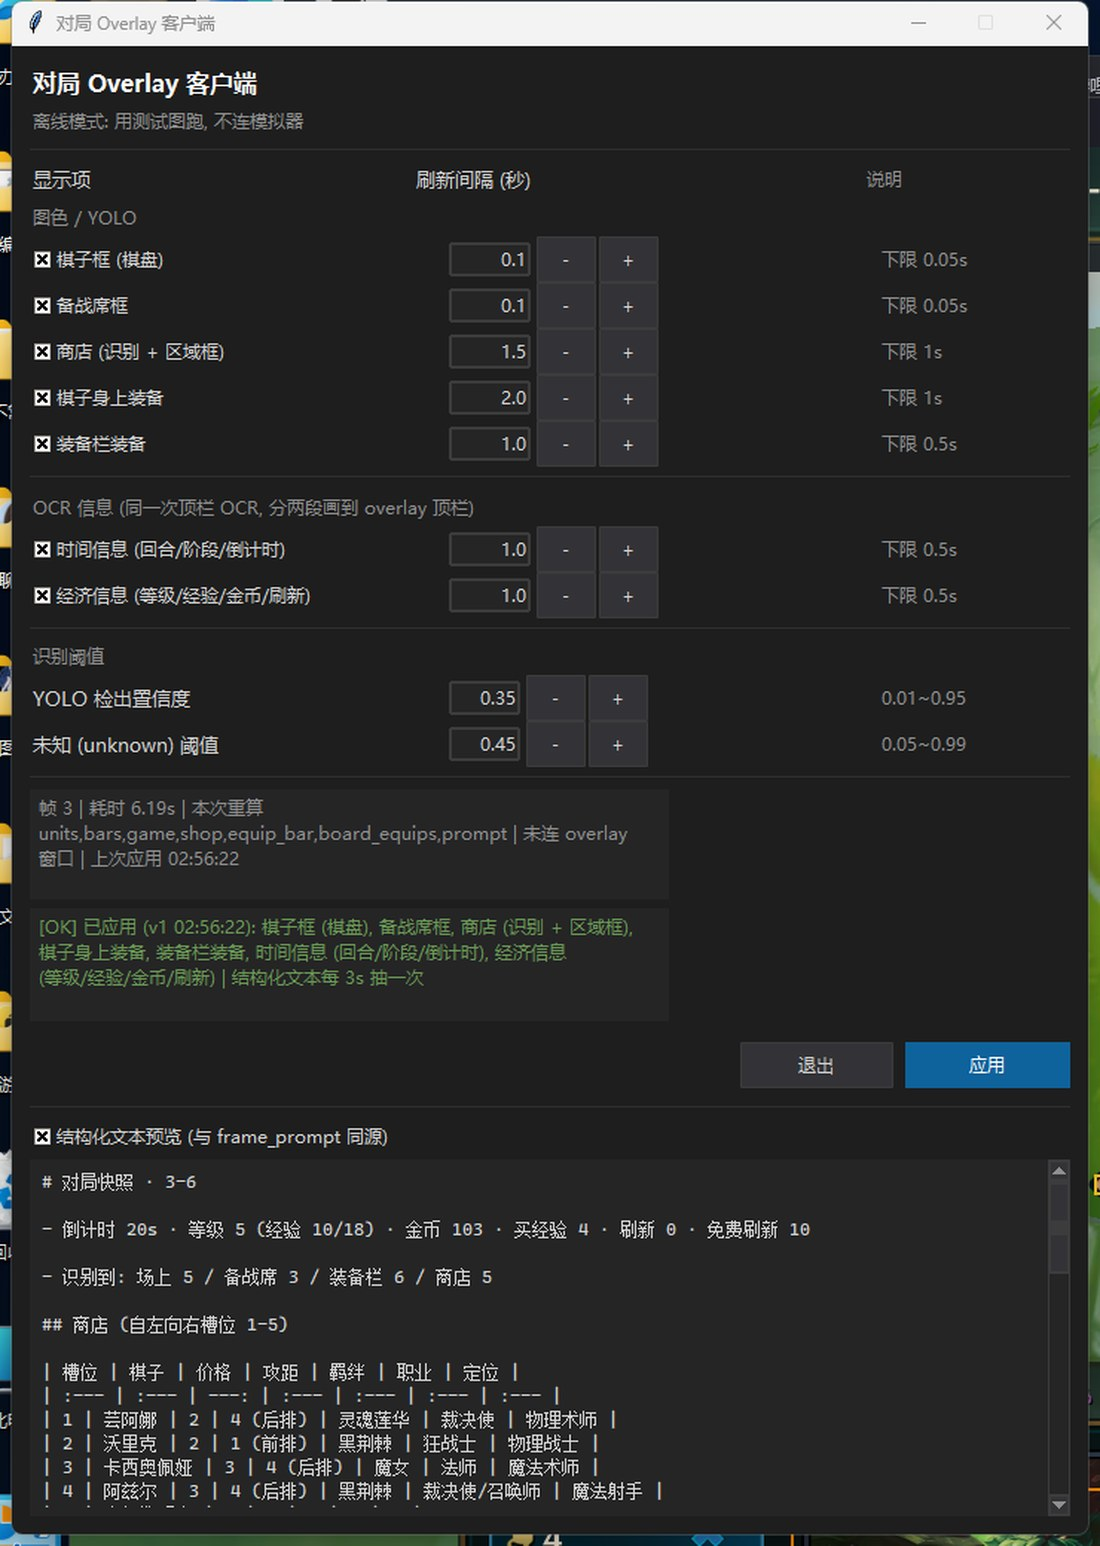
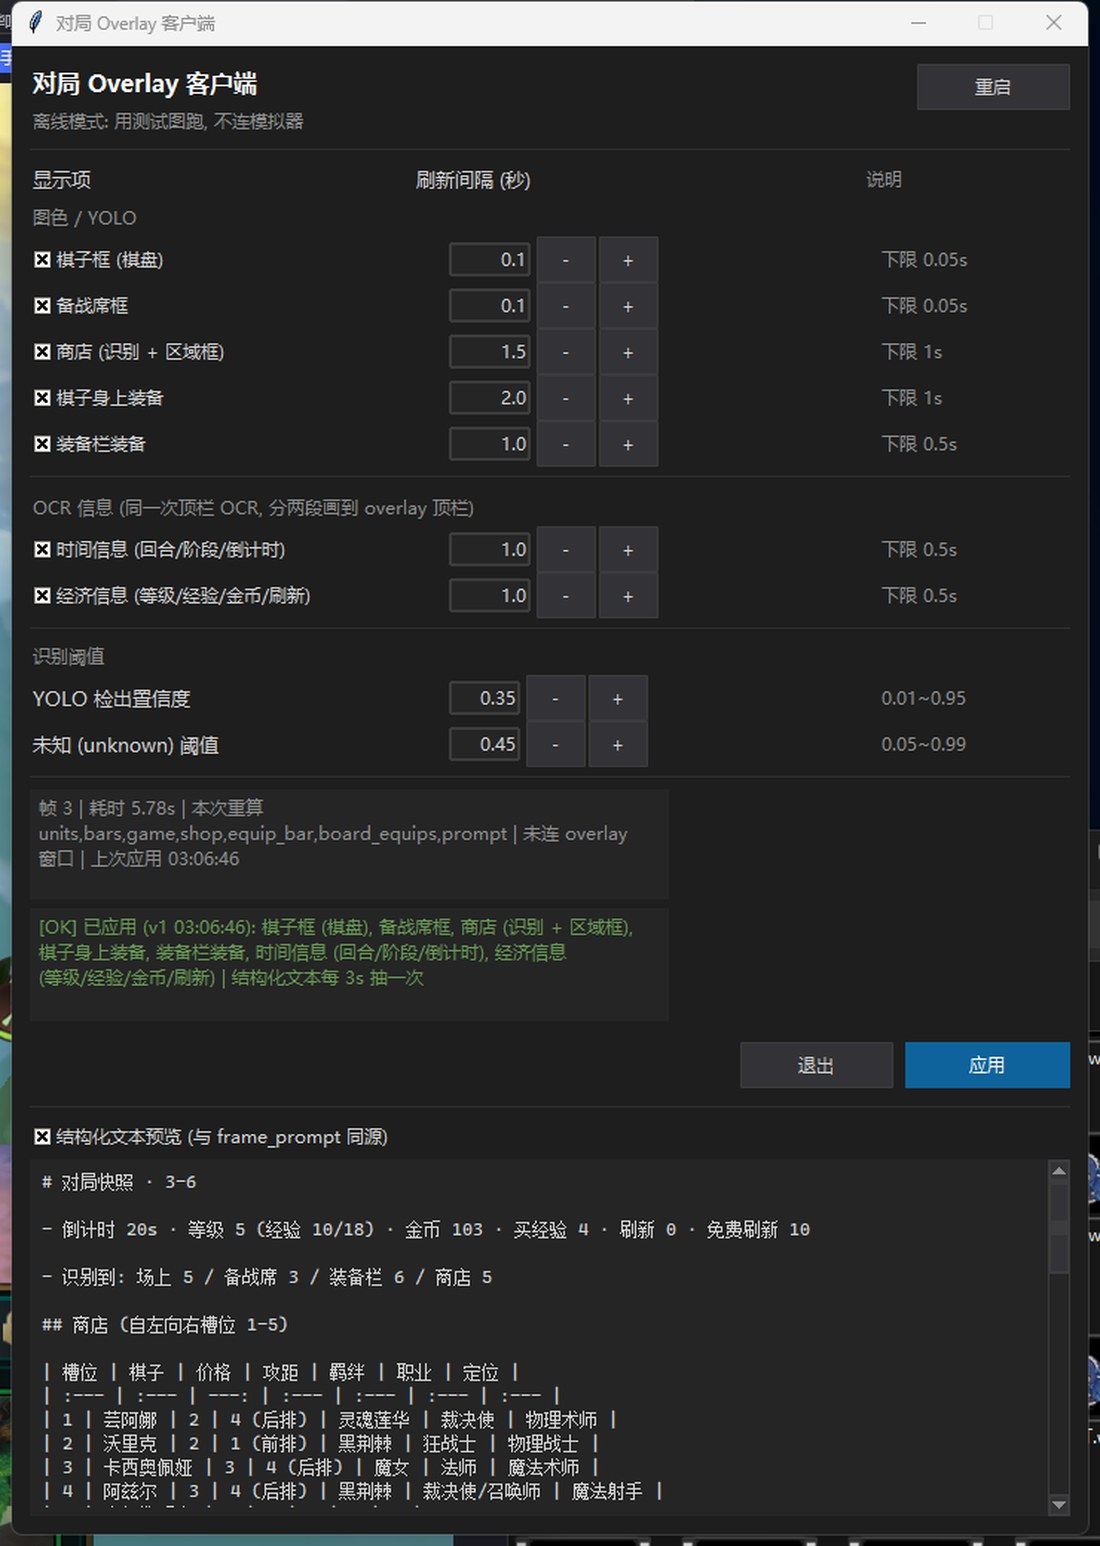
feat(client): 右上角加「重启」按钮 (重新探窗口 + 重建识别线程 + 计数清零)
改 config.py 不会因此生效(进程级常量), 已在 README 里写明; selftest 加第 10 段验证重启.

diff --git a/scripts/overlay_client.py b/scripts/overlay_client.py
@@ -507,11 +507,13 @@ class App(tk.Tk):
     """设置窗口: 勾选框 + 间隔输入 + 「应用」."""
 
     def __init__(self, settings: Settings, worker: Worker,
-                 target: dict | None, *, offline: bool = False) -> None:
+                 target: dict | None, *, offline: bool = False,
+                 args=None) -> None:
         super().__init__()
         self.settings = settings
         self.worker = worker
         self.offline = offline
+        self.args = args
         self._applied_at = "-"
         self._closed = False
         self._pv_no = -1          # 上次刷进面板的 prompt 版本号
@@ -612,8 +614,11 @@ class App(tk.Tk):
 
         head = ttk.Frame(outer)
         head.grid(row=0, column=0, sticky="ew")
+        head.columnconfigure(0, weight=1)
         ttk.Label(head, text="对局 Overlay 客户端", style="Title.TLabel").grid(
             row=0, column=0, sticky="w")
+        ttk.Button(head, text="重启", command=self.on_restart).grid(
+            row=0, column=1, rowspan=2, sticky="ne", padx=(12, 0))
 
         if self.offline:
             win_txt = "离线模式: 用测试图跑, 不连模拟器"
@@ -918,6 +923,57 @@ class App(tk.Tk):
         self.after(UI_POLL_MS, self._poll)
 
     # ---- 退出 ----
+    def on_restart(self) -> None:
+        """重启识别: 重新探测窗口 -> 重建 Worker (重新载入模型) -> 计数清零.
+
+        不用关窗口、不用重开进程。注意: 改 `config.py` 里的值**不会**因此生效 ——
+        那是 python 进程级的事 (模块常量已经载入), 这里的"重启"只针对识别这一层:
+        重新探窗口 (模拟器重启过/换了个模拟器)、重新建 ORT 会话、把帧号和计数清掉。
+        """
+        print("[i] 重启识别…")
+        self._set_text(self.say_text, "正在重启…", FG_DIM)
+        self.update_idletasks()
+
+        old = self.worker
+        try:
+            old.stop()
+        except Exception:  # noqa: BLE001 - 线程可能已经停了
+            pass
+        try:
+            debug_overlay.stop()
+        except Exception:  # noqa: BLE001
+            pass
+
+        args = self.args
+        try:
+            if args is None:                 # 自检/无参场景: 沿用原来的帧源
+                src, offline = old.frame_source, self.offline
+            else:
+                src, offline = _make_source(args)
+        except FileNotFoundError as exc:
+            self._set_text(self.say_text, f"[X] 重启失败: {exc}", ERR_RED)
+            return
+
+        use_overlay = False
+        if not offline and (args is None or not getattr(args, "no_overlay", False)):
+            ld = getattr(args, "ld_index", None) if args is not None else None
+            if debug_overlay.resolve_target(ld) is not None:
+                use_overlay = debug_overlay.start(ld)
+
+        self.offline = offline
+        self.worker = Worker(self.settings, src, use_overlay=use_overlay)
+        self.worker.start()
+        self._pv_no = -1
+        self._set_text(self.status_text, "已重启, 等第一帧…", FG_DIM)
+
+        msg = "[OK] 识别已重启"
+        if offline:
+            msg += " (离线模式)"
+        elif not use_overlay:
+            msg += " (没找到模拟器窗口, 只跑识别)"
+        self._set_text(self.say_text, msg, OK_GREEN)
+        print(msg)
+
     def on_close(self) -> None:
         if self._closed:
             return
@@ -1006,7 +1062,7 @@ def run_selftest(args) -> int:
     settings = Settings()
     src, offline = _make_source(args)
     worker = Worker(settings, src, use_overlay=False)
-    app = App(settings, worker, None, offline=True)
+    app = App(settings, worker, None, offline=True, args=args)
     app.withdraw()
     fails = 0
 
@@ -1149,6 +1205,22 @@ def run_selftest(args) -> int:
     check("非法值按下限起步", app.iv_vars["shop"].get() == "1.1",
           app.iv_vars["shop"].get())
 
+    print("[10] 重启按钮")
+    old_worker = app.worker
+    app.say_text.delete("1.0", "end")
+    app.on_restart()
+    check("重启换了新 worker", app.worker is not old_worker)
+    check("重启有提示", "重启" in say(), say())
+    for _ in range(120):                 # 等新 worker 跑出第一帧 (最多约 6s)
+        app.update()
+        if app.worker.status()["frame"] >= 1:
+            break
+        time.sleep(0.05)
+    st_re = app.worker.status()
+    check("重启后出了帧", st_re["frame"] >= 1, str(st_re["frame"]))
+    check("重启后没有错误", not st_re["errors"], str(st_re["errors"]))
+    app.worker.stop()
+
     app.destroy()
     print(f"[{'OK' if fails == 0 else 'X'}] 自检{'通过' if fails == 0 else f'失败 {fails} 项'}")
     return 0 if fails == 0 else 1
@@ -1194,7 +1266,7 @@ def main(argv=None) -> int:
         print("[!] 离线模式不建 overlay 窗口 (只跑识别与设置界面)")
 
     worker = Worker(settings, src, use_overlay=use_overlay and not offline)
-    app = App(settings, worker, target, offline=offline)
+    app = App(settings, worker, target, offline=offline, args=args)
     app.after(200, worker.start)
     if args.seconds:
         app.after(int(args.seconds * 1000), app.on_close)

diff --git a/README.md b/README.md
@@ -165,6 +165,8 @@ python -X utf8 -u -m scripts.overlay_client --img tests/images/board_ingame.png 
 - 间隔填得比下限小会被钳到下限并提示；填错（空、非数字、≤0）整次拒绝并红字说明，不会写一半。
 - 全都不勾 = overlay 清空，但仍然保持对局检测；非对局画面（大厅/结算）自动暂停识别，不会画出一堆假框。
 - 间隔是"请求间隔"：某一项真的算得比它慢时，实际刷新率就是这个项的识别耗时（YOLO 棋子 40ms 左右，OCR 约 1s），不会被强行拉到间隔值。
+- 右上角 **重启**：重新探测模拟器窗口、重建识别线程（重新载入 ONNX 会话）、帧号与错误计数清零；窗口和当前勾选/间隔不变。模拟器重启过、或识别线程卡住时点它，不用关客户端。
+  注意 `config.py` 里的值是进程级常量，改文件后点重启**不会**生效，那种情况要关掉客户端重开。
 
 ### 接真实游戏
 
